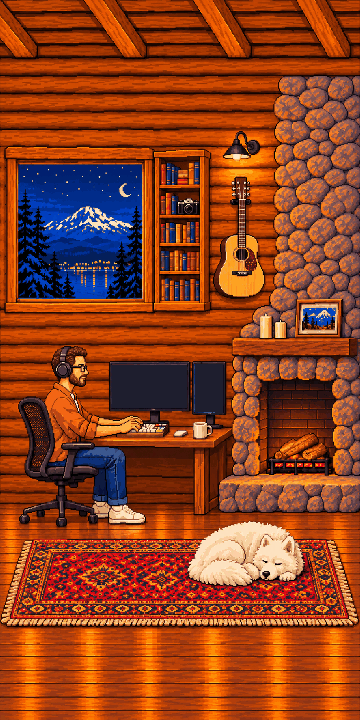
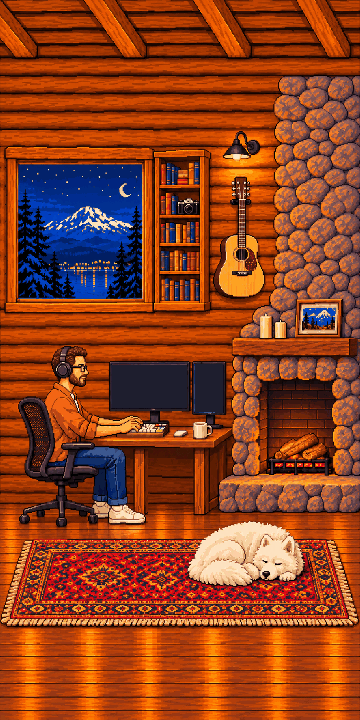
fix(cabin): give the desk its left leg
Both paintings show the desk held up by one leg on the right. The build
now copies that leg to the left end, behind the shoes.

Changed region(s): [[0.3667, 0.6111, 0.4278, 0.7333]]

diff --git a/scripts/build-cabin.py b/scripts/build-cabin.py
@@ -1,7 +1,8 @@
 #!/usr/bin/env python3
 """Build the cabin's plate and animation layers from one painted scene per layout.
 
-Each layout is one painting on the art grid, used as painted: nothing is pasted onto it. The monitors are painted as
+Each layout is one painting on the art grid, used as painted, with one correction: the desk was painted with no left
+leg, so its right leg is copied across, behind the shoes. The monitors are painted as
 flat key colours and become the screen masks. Every animation layer is cut from the plate or drawn to fit it; the fire burns in the page, from the hearth measured here.
 
     build-cabin.py ~/danaimone-art public/game src/components/game/room-layouts.json
@@ -12,7 +13,7 @@ import sys
 from collections import deque
 from pathlib import Path
 
-from PIL import Image
+from PIL import Image, ImageFilter
 
 SCREEN_GLASS = (30, 30, 46)
 PALETTE_COLORS = 256
@@ -35,6 +36,7 @@ ROOMS = {
         "coffee": (462, 182), "candles": [(530, 83), (543, 89)],
         "blink": (354, 138, 2, 2),
         "hands": (394, 170, 414, 194),
+        "deskLeg": {"right": (451, 205, 469, 276), "shift": -58, "shoes": (372, 250, 410, 278)},
         "taps": {"origin": (320, 137), "frames": ["tap-wide-f1.png", "tap-wide-n1.png", "tap-wide-f2.png", "tap-wide-n2.png", "tap-wide-f3.png"]},
     },
     "tall": {
@@ -45,6 +47,7 @@ ROOMS = {
         "coffee": (200, 423), "candles": [(266, 315), (280, 321)],
         "blink": (81, 367, 2, 2),
         "hands": (126, 408, 148, 436),
+        "deskLeg": {"right": (190, 449, 208, 515), "shift": -60, "shoes": (98, 494, 150, 522)},
         "taps": {"origin": (55, 379), "frames": ["tap-tall-f1.png", "tap-tall-n1.png", "tap-tall-f2.png", "tap-tall-n2.png", "tap-tall-f3.png"]},
     },
 }
@@ -223,8 +226,28 @@ def lake_spans(plate, box):
     return spans
 
 
+def add_left_desk_leg(plate, leg):
+    """Copy the desk's right leg to where the left one stands, leaving the shoes and their outline in front of it."""
+    px = plate.load()
+    sx0, sy0, sx1, sy1 = leg["shoes"]
+    shoes = Image.new("L", plate.size, 0)
+    mark = shoes.load()
+    for y in range(sy0, sy1):
+        for x in range(sx0, sx1):
+            r, g, b = px[x, y]
+            if r > 190 and g > 160 and b > 120:
+                mark[x, y] = 255
+    in_front = shoes.filter(ImageFilter.MaxFilter(3)).load()
+    x0, y0, x1, y1 = leg["right"]
+    copied = {(x + leg["shift"], y): px[x, y] for y in range(y0, y1) for x in range(x0, x1)}
+    for (x, y), color in copied.items():
+        if not in_front[x, y]:
+            px[x, y] = color
+
+
 def build(art, out, name, spec):
     plate = Image.open(art / "cabin2" / spec["source"]).convert("RGB")
+    add_left_desk_leg(plate, spec["deskLeg"])
     magenta = keyed(plate, lambda r, g, b: r > 170 and b > 170 and g < 90)
     cyan = keyed(plate, lambda r, g, b: g > 170 and b > 170 and r < 90)
     main, side = box_of(magenta), box_of(cyan)

diff --git a/README.md b/README.md
@@ -6,7 +6,7 @@ Built with Bun, Astro 7, Svelte 5, TypeScript, and canvas. The page is static HT
 
 ### Art pipeline
 
-Art was generated with GPT Image (via Codex) from the prompts in `scripts/art-prompts/`, using the avatar as the identity reference and the Dan sheet as the style reference for everything else. Raw generations are not committed. Each one is cleaned into true pixel art, and building night lights are extracted. The cabin is built differently: each layout is one scene painted from scratch on a 4 px art grid (`cabin-wide.txt`, then `cabin-hands.txt` for the hands, then `cabin-tall.txt` to repaint the same room for phones). `scripts/build-cabin.py` uses each painting as painted, with nothing pasted on, measures the hearth for the fire the page simulates, and draws Mishka's breathing to fit it. The typing frames are painted too: `cabin-typing.txt` is run on a 16x close-up of the hands, once per finger pose, and only the finger pixels that changed are kept, with `room-layouts.json` as the manifest. The monitors are generated as flat key colors, so the masks come straight from the art.
+Art was generated with GPT Image (via Codex) from the prompts in `scripts/art-prompts/`, using the avatar as the identity reference and the Dan sheet as the style reference for everything else. Raw generations are not committed. Each one is cleaned into true pixel art, and building night lights are extracted. The cabin is built differently: each layout is one scene painted from scratch on a 4 px art grid (`cabin-wide.txt`, then `cabin-hands.txt` for the hands, then `cabin-tall.txt` to repaint the same room for phones). `scripts/build-cabin.py` uses each painting as painted (its one correction is the desk's left leg, copied from the right one), measures the hearth for the fire the page simulates, and draws Mishka's breathing to fit it. The typing frames are painted too: `cabin-typing.txt` is run on a 16x close-up of the hands, once per finger pose, and only the finger pixels that changed are kept, with `room-layouts.json` as the manifest. The monitors are generated as flat key colors, so the masks come straight from the art.
 
 ```sh
 python3 scripts/pixelize.py raw/dan-sheet.png out/dan --frames 6 --height 84 --colors 28
